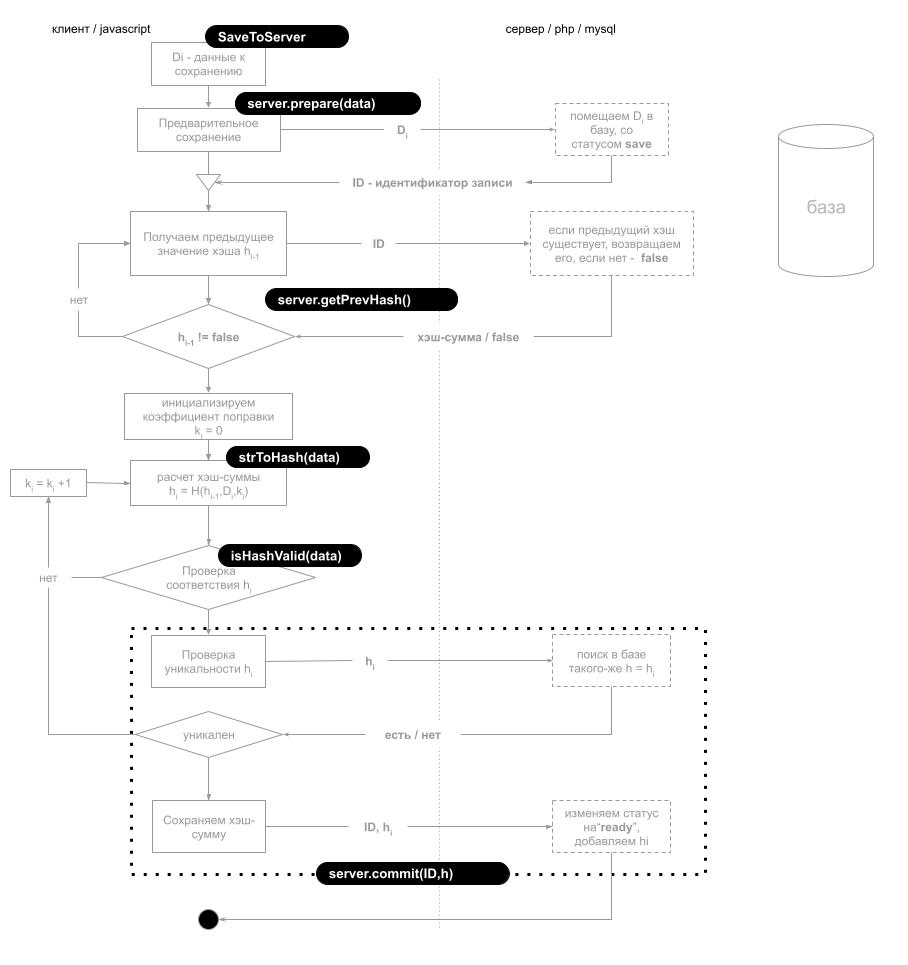
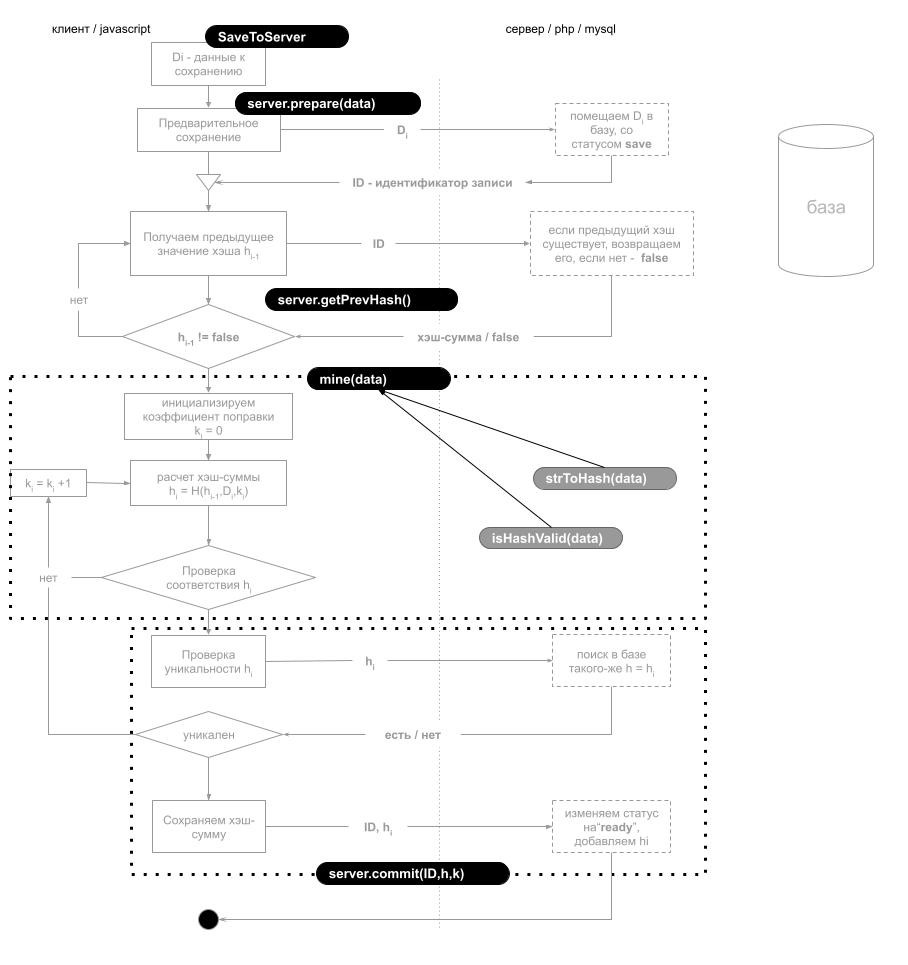
stylish fix

diff --git a/client/index.html b/client/index.html
@@ -21,6 +21,7 @@
             <button id="btn-init" >init</button>
             <button id="btn-test" >test</button>
             <button id="btn-load" >load</button>
+            <button id="btn-waiter" >waiter</button>
           </div>
           <div class="panel">
             <input id="test-info" type='text' placeholder="info"/>
@@ -29,7 +30,7 @@
             <button id="btn-commit" >commit</button>
           </div>
 
-          <div class="panel block" id="for-all-list">
+          <div class="panel block overflow-h" id="for-all-list">
           </div>
         </div>
         <div id="tab-1">
@@ -47,7 +48,7 @@
             <button id="btn-clear-clients-list">очистить</button>
           </div>
           <div class="panel block" >
-            <div id="for-clients-list" style="min-width:520px"></div>
+            <div id="for-clients-list" style="min-width:520px" class="overflow-h"></div>
           </div>
           <div class="panel vert">
             <label>Добавить клиента</label>
@@ -66,7 +67,7 @@
             <button id="btn-search-client" >поиск</button>
           </div>
           
-          <div class="panel block" id="for-clients-finds">
+          <div class="panel block overflow-h" id="for-clients-finds">
           </div>
 
           <div class="panel block" id="panel-results">
@@ -74,7 +75,7 @@
             <input type="text" id="current-client-name" />
 
             <label>Результаты обращений</label>
-            <div id="for-results"></div>
+            <div id="for-results" class="overflow-h"></div>
             <label>Обследование</label>
             <textarea style="width:100%;min-height:100px" id="result-text"></textarea>
             <hr>
@@ -87,7 +88,10 @@
       <div id="dlg-1" title="dialog">
         <p id="message"></p>
       </div>
-
+      
+    </div>
+    <div id="waiter">
+      <div id="progress-1"><div class="progress-label"><span>расчет..</span></div></div>
     </div>
   </body>
 </html>

diff --git a/client/utils/ui.js b/client/utils/ui.js
@@ -1,3 +1,5 @@
+import screen from './screen';
+
 export const ui = {};
 
 export function addUI(...ids) {
@@ -17,16 +19,47 @@ export function addUI(...ids) {
         if (id.indexOf('tabs-') === 0) {
             widg.tabs();
         }
+        if (id.indexOf('progress-') === 0) {
+            widg.progressbar({ value: false });
+        }
         return undefined;
     });
     return ui;
 }
+let waiterInit = false;
+export const waiter = (ev) => {
+    if (!waiterInit) {
+        waiterInit = true;
+        const winOff = { x: -1, y: -1 };
+        const scr = { width: -1, height: -1 };
+        setInterval(() => {
+            const s = screen();
+            if (winOff.x !== window.pageXOffset || winOff.y !== window.pageYOffset || s.width !== scr.width || s.height !== scr.height) {
+                winOff.x = window.pageXOffset;
+                winOff.y = window.pageYOffset;
+                scr.width = s.width;
+                scr.height = s.height;
 
+                ui.waiter.css({
+                    height: scr.height, width: scr.width, left: 0, top: winOff.y,
+                });
+            }
+        }, 1000);
+    }
+
+    if (ev === 'show') {
+        ui.waiter.show();
+    } else {
+        ui.waiter.hide();
+    }
+};
 export function createUI() {
     const list = $('*');
     const ids = [];
     list.each((i, dom) => (dom.id ? ids.push(dom.id) : ''));
     addUI(...ids);
+
+    waiter('hide');
 
     return ui;
 }

diff --git a/client/style/index.css b/client/style/index.css
@@ -60,7 +60,8 @@ body{
     user-select: none;
     margin:var(--gap);
     padding:var(--gap);
-    overflow:auto;
+    overflow-y:auto;
+    overflow-x:hidden;
 }
 
 @media screen and (max-width: 900px) {
@@ -133,6 +134,10 @@ label{
 }
 
 /*---------------------------------------------------*/
+.overflow-h{
+    max-height:300px;
+    overflow-y: auto;
+}
 .dataTables_wrapper{
     border: 1px solid var(--dark);
 }
@@ -151,5 +156,36 @@ table tbody tr{
 table tbody td{
     padding-left:var(--gap);
     padding-right:var(--gap);
+}
+/*---------------------------------------------------*/
+#waiter{
+    background-color: #ffffff5e;
+
+    position: absolute;
+    left:0px;
+    top:0px;
+
+    display: flex;
+    flex-direction: row;
+    flex-wrap: wrap;
+    justify-content: center;
+    align-content: center;
+    align-items: center;
+
+}
+/*---------------------------------------------------*/
+.ui-progressbar{
+    min-width: 100px;
+}
+.progress-label{
+    position: absolute;
+    width: 0px;
+    height: 0px;
+    text-shadow: 0 0 1px black;
+}
+.progress-label span{
+    position: relative;
+    left:10px;
+    top:2px;
 }
 /*---------------------------------------------------*/

diff --git a/client/tabs/jurnal.js b/client/tabs/jurnal.js
@@ -1,5 +1,5 @@
 import { createTable, clearTable, addToTable } from '../utils/table';
-import { ui } from '../utils/ui';
+import { ui, waiter } from '../utils/ui';
 import { data, onChange } from '../data';
 import { isChange } from '../utils/isChange';
 import server from '../../source/server';
@@ -70,11 +70,14 @@ export default () => {
             });
     });
     ui['btn-add-result'].on('click', () => {
+        waiter('show');
         saveToServer(ui['result-text'].val(), data().current.ID_CLIENT)
             .then(() => {
                 updateClientResults();
+                waiter('hide');
             }).catch((e) => {
                 console.error(e);
+                waiter('hide');
             });
 
         // server.saveNewResults(data().current.ID_CLIENT, ui['result-text'].val())

diff --git a/source/saveToServer.js b/source/saveToServer.js
@@ -4,9 +4,8 @@
 import server from './server';
 import { mine } from './mining/mine';
 
-/*
-export default async function _saveToServer(Di) {
-    const res = await server.prepare(Di);
+export default async function saveToServer(Di, ID_CLIENT) {
+    const res = await server.prepare(Di, ID_CLIENT);
 
     console.log('id', res.ID);
     let h = await server.getPrevHash(res.ID);
@@ -14,8 +13,8 @@ export default async function _saveToServer(Di) {
         h = await server.getPrevHash(res.ID);
     }
 }
-*/
 
+/*
 export default async function saveToServer(Di, ID_CLIENT) {
     const prepare = await server.prepare(Di, ID_CLIENT);
 
@@ -38,3 +37,4 @@ export default async function saveToServer(Di, ID_CLIENT) {
     //    out = await server.commit(prepare.ID, block.hash, block.i);
     // }
 }
+*/

diff --git a/client/tabs/server.js b/client/tabs/server.js
@@ -1,5 +1,5 @@
 import { createTable, clearTable, addToTable } from '../utils/table';
-import { ui } from '../utils/ui';
+import { ui, waiter } from '../utils/ui';
 import server from '../../source/server';
 import { data, onChange } from '../data';
 
@@ -76,5 +76,12 @@ export default () => {
         }).catch((e) => {
             console.error(e);
         });
+    });
+
+    ui['btn-waiter'].on('click', () => {
+        waiter('show');
+        setTimeout(() => {
+            waiter('hide');
+        }, 5000);
     });
 };

diff --git a/client/utils/pos.js b/client/utils/pos.js
@@ -1,0 +1,9 @@
+export default (dom) => {
+    const rect = dom.getBoundingClientRect();
+    return {
+        x: rect.left + window.pageXOffset,
+        y: rect.top + window.pageYOffset,
+        w: rect.width,
+        h: rect.height,
+    };
+};

diff --git a/client/utils/screen.js b/client/utils/screen.js
@@ -1,0 +1,4 @@
+export default () => ({
+    width: window.innerWidth || document.documentElement.clientWidth || document.body.clientWidth,
+    height: window.innerHeight || document.documentElement.clientHeight || document.body.clientHeight,
+});

diff --git a/client/utils/onResizeScreen.js b/client/utils/onResizeScreen.js
@@ -1,0 +1,6 @@
+export default (callback) => {
+    window.addEventListener('resize', callback);
+    return () => {
+        window.removeEventListener('resize', callback);
+    };
+};
